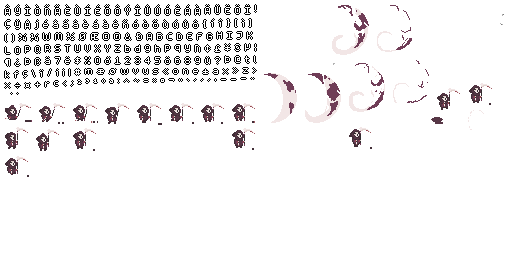
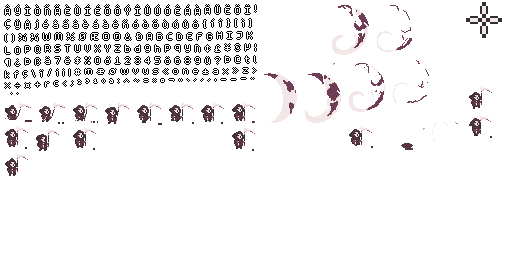
add cursor

diff --git a/game/src/commonMain/kotlin/com/lehaine/game/scene/GameScene.kt b/game/src/commonMain/kotlin/com/lehaine/game/scene/GameScene.kt
@@ -1,14 +1,12 @@
 package com.lehaine.game.scene
 
-import com.lehaine.game.Config
-import com.lehaine.game.Fx
-import com.lehaine.game.GameInput
-import com.lehaine.game.createUiGameInputSignals
+import com.lehaine.game.*
 import com.lehaine.game.entity.Hero
 import com.lehaine.game.entity.hero
 import com.lehaine.littlekt.Context
 import com.lehaine.littlekt.file.ldtk.LDtkMapLoader
 import com.lehaine.littlekt.file.vfs.readLDtkMapLoader
+import com.lehaine.littlekt.file.vfs.readPixmap
 import com.lehaine.littlekt.graph.node.Node
 import com.lehaine.littlekt.graph.node.addTo
 import com.lehaine.littlekt.graph.node.canvasLayer
@@ -18,6 +16,7 @@ import com.lehaine.littlekt.graph.node.node2d.node2d
 import com.lehaine.littlekt.graph.node.ui.Control
 import com.lehaine.littlekt.graph.node.ui.control
 import com.lehaine.littlekt.graphics.Color
+import com.lehaine.littlekt.graphics.Cursor
 import com.lehaine.littlekt.graphics.tilemap.ldtk.LDtkLevel
 import com.lehaine.littlekt.input.GameAxis
 import com.lehaine.littlekt.input.GameButton
@@ -31,6 +30,7 @@ import com.lehaine.rune.engine.node.pixelPerfectSlice
 import com.lehaine.rune.engine.node.pixelSmoothFrameBuffer
 import com.lehaine.rune.engine.node.renderable.LDtkGameLevelRenderable
 import com.lehaine.rune.engine.node.renderable.ldtkLevel
+import kotlin.math.roundToInt
 import kotlin.time.Duration
 
 
@@ -87,6 +87,10 @@ class GameScene(context: Context) :
         val mapLoader = resourcesVfs["world.ldtk"].readLDtkMapLoader().also { this@GameScene.mapLoader = it }
         val world = mapLoader.loadMap(false, 0)
         ldtkLevel = world.levels[0]
+        val cursorImage =  resourcesVfs["cursor.png"].readPixmap()
+        val cursor =
+            Cursor(cursorImage, (cursorImage.width * 0.5).roundToInt(), (cursorImage.height * 0.5f).roundToInt())
+        context.graphics.setCursor(cursor)
         createNodes()
     }
 
